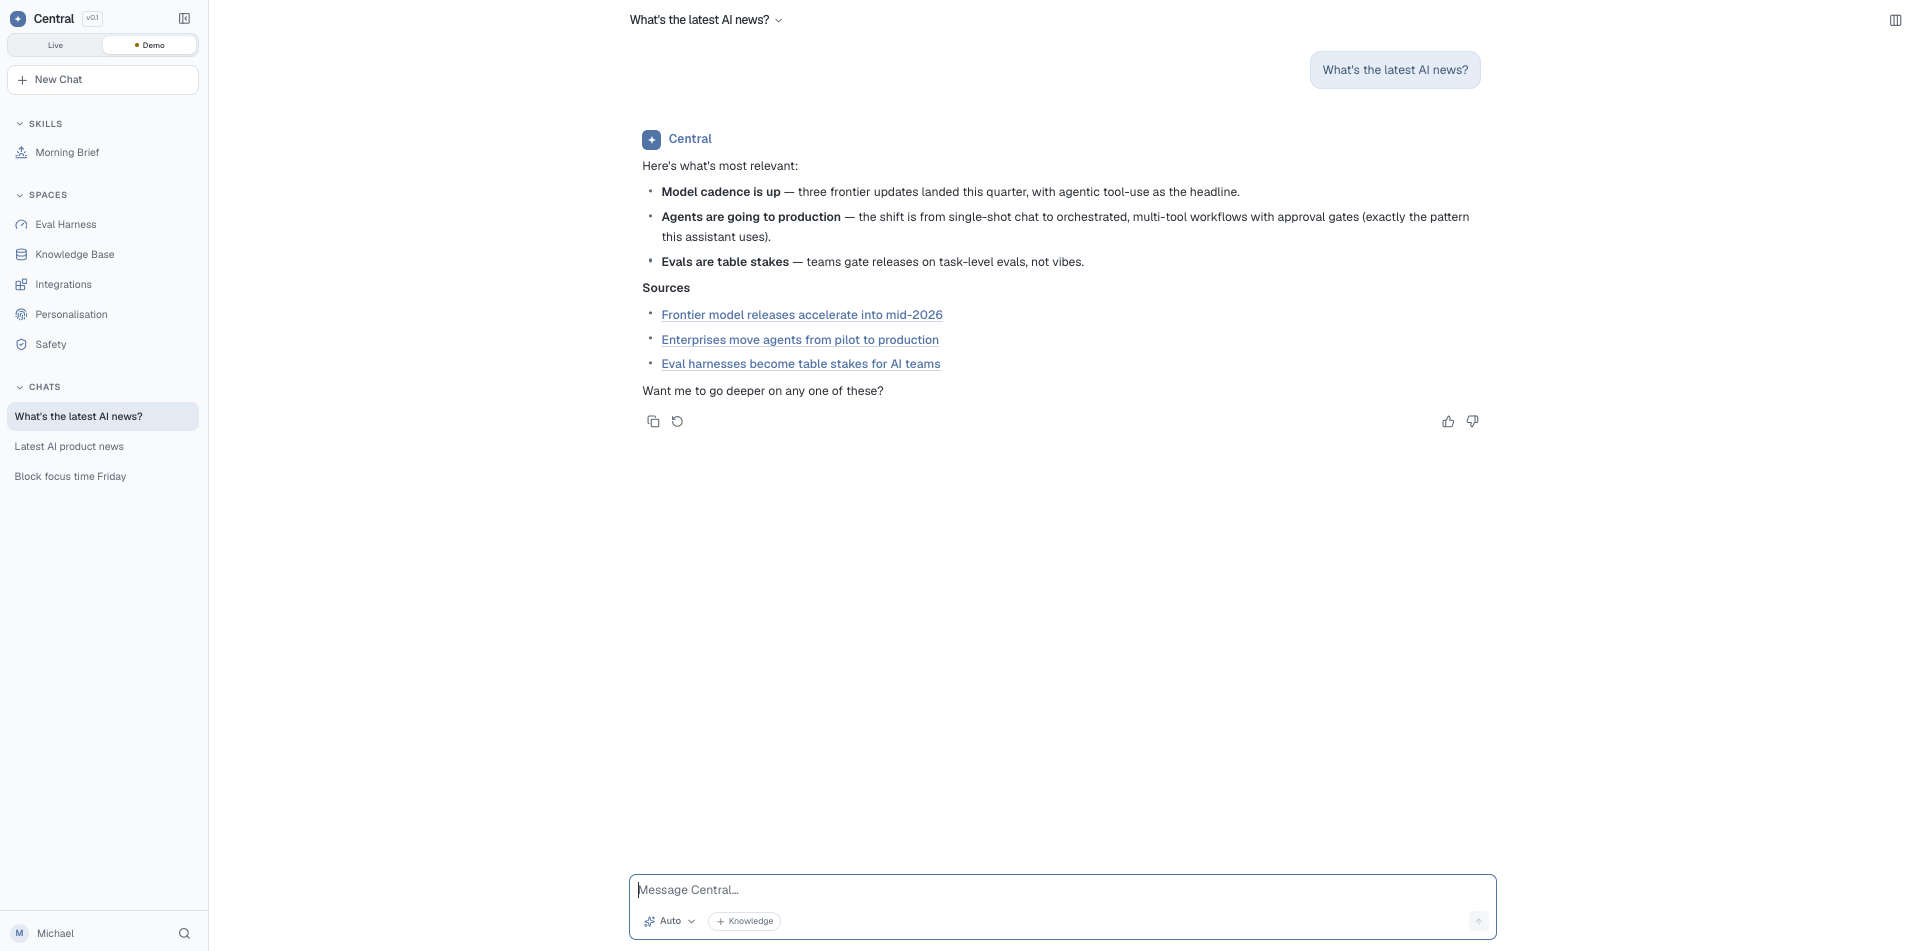
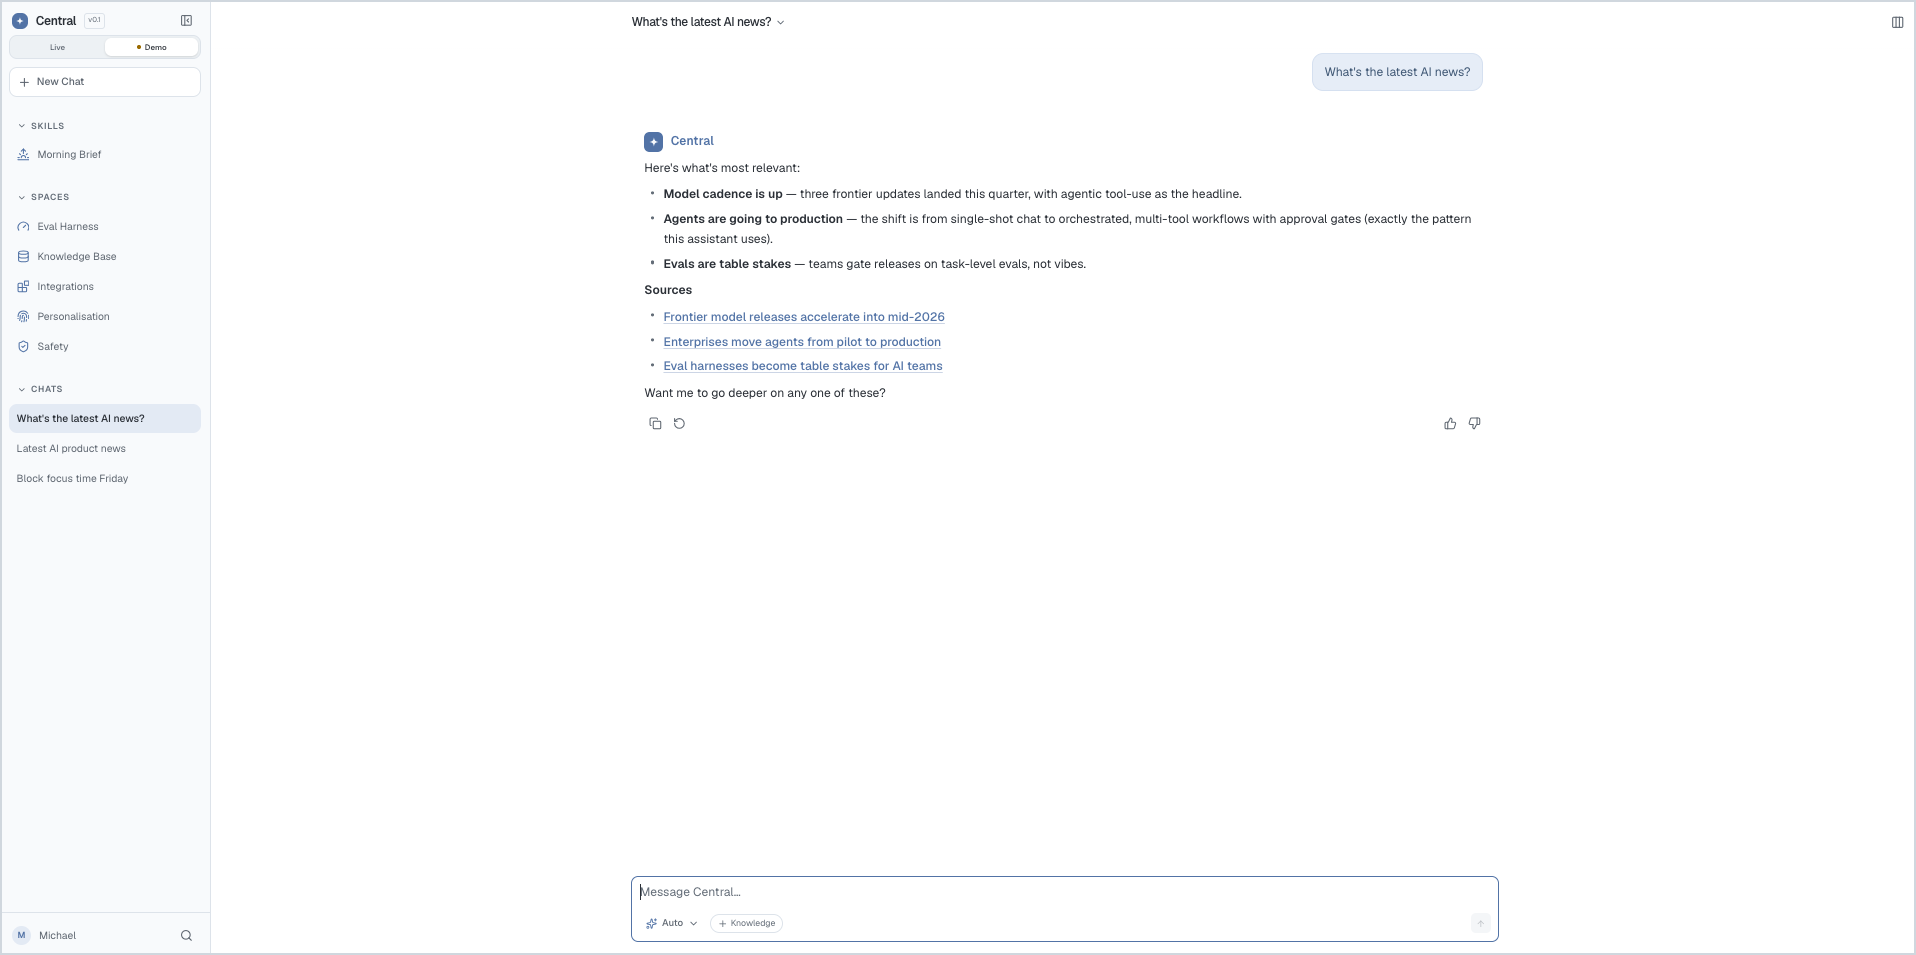
Portfolio overview: bulleted solutions, uncaptioned demo previews with bordered screenshots

diff --git a/README.md b/README.md
@@ -11,14 +11,14 @@
   <tbody>
   <tr>
     <td width="24%" valign="top"><b><a href="central/README.md">Central</a></b><br>Personal AI assistant harness for knowledge work<br><br><a href="https://michaelma-central.vercel.app/"><img src="https://img.shields.io/badge/Try%20the%20demo-1a7f5a?style=flat-square" alt="Central demo"></a> <a href="central/README.md"><img src="https://img.shields.io/badge/README-0b3d91?style=flat-square" alt="Central README"></a></td>
-    <td width="48%" valign="top"><b>Problem:</b> Paid AI plans cap usage and heavy users hit limits on agentic coding before the day's knowledge work is done. This knowledge work is also scattered across email, calendar, documents and the web.<br><br><b>Solution:</b> One agentic assistant at &#36;0 inference cost that works across 37 tools, shows what it will do first, remembers the user in a readable profile, blocks harmful requests without over-refusing, and keeps working when a provider fails.</td>
+    <td width="48%" valign="top"><b>Problem:</b> Paid AI plans cap usage, and knowledge work is scattered across email, calendar, documents and the web.<br><br><b>Solution:</b> One agentic assistant at &#36;0 inference cost that:<ul><li>works across 37 tools</li><li>shows what it will do first</li><li>remembers the user in a readable profile</li><li>blocks harmful requests without over-refusing</li><li>keeps working when a provider fails</li></ul></td>
     <td width="28%" valign="top"><img src="https://img.shields.io/badge/LangGraph-supervisor%20%2B%20workers-1a7f5a?style=flat-square" alt="LangGraph"> <img src="https://img.shields.io/badge/LlamaIndex-Qdrant%20Cloud%20vector%20store-1a7f5a?style=flat-square" alt="LlamaIndex"> <img src="https://img.shields.io/badge/Google%20Workspace-6%20apps-1a7f5a?style=flat-square&logo=google&logoColor=white" alt="Google Workspace"> <img src="https://img.shields.io/badge/Web-search%20·%20Fetch%20MCP%20·%20YouTube-1a7f5a?style=flat-square" alt="Web"> <img src="https://img.shields.io/badge/Hybrid%20RAG-Gemini%20embeddings%20%2B%20BM25-1a7f5a?style=flat-square" alt="Hybrid RAG"> <img src="https://img.shields.io/badge/Safety%20gate-Nemotron%20content%20safety-1a7f5a?style=flat-square" alt="Safety gate"> <img src="https://img.shields.io/badge/Inference-Gemini%20API%20·%20NVIDIA%20NIM-1a7f5a?style=flat-square" alt="Inference"></td>
   </tr>
   </tbody>
   <tbody>
   <tr>
     <td width="24%" valign="top"><b><a href="eval_harness/README.md">Eval Harness</a></b><br>Offline evals and release gate for Central<br><br><a href="https://michaelma-eval-harness.vercel.app/"><img src="https://img.shields.io/badge/Try%20the%20demo-1a7f5a?style=flat-square" alt="Eval Harness demo"></a> <a href="eval_harness/README.md"><img src="https://img.shields.io/badge/README-0b3d91?style=flat-square" alt="Eval Harness README"></a></td>
-    <td width="48%" valign="top"><b>Problem:</b> Eval-driven development is recommended because any product change can break an agent, though small teams sometimes decide to ship after spot-checking a few examples because agent evals are hard to build.<br><br><b>Solution:</b> A working example of agent evals on a real product: it scores Central's outputs against 211 golden cases, trusts the judge only once it matches human labels, and gives one release verdict.</td>
+    <td width="48%" valign="top"><b>Problem:</b> Any change can break an agent, and small teams often ship after spot-checks because agent evals are hard to build.<br><br><b>Solution:</b> A working example of agent evals on a real product that:<ul><li>scores Central's outputs against 211 golden cases</li><li>trusts the judge only once it matches human labels</li><li>gives one release verdict</li></ul></td>
     <td width="28%" valign="top"><img src="https://img.shields.io/badge/Golden%20dataset-211%20cases-b45309?style=flat-square" alt="Golden dataset"> <img src="https://img.shields.io/badge/LLM--as--judge-validated%20vs%20human%20labels-b45309?style=flat-square" alt="LLM-as-judge"> <img src="https://img.shields.io/badge/Cohen's%20κ-hand--rolled%2C%20degenerate--aware-b45309?style=flat-square" alt="Cohen's κ"> <img src="https://img.shields.io/badge/Release%20gating-P0%20%2B%20coverage%20%2B%20κ-b45309?style=flat-square" alt="Release gating"> <img src="https://img.shields.io/badge/Judges-2%20models%20on%20NVIDIA%20NIM-b45309?style=flat-square&logo=nvidia&logoColor=white" alt="Judges"> <img src="https://img.shields.io/badge/Arize%20Phoenix-tracing-b45309?style=flat-square" alt="Arize Phoenix"></td>
   </tr>
   </tbody>
@@ -26,11 +26,11 @@
 
 
 ## Demo Preview:
-**[Central](https://michaelma-central.vercel.app/)** · <sub><i>Calming first screen: chat, skills, spaces and a cited answer in one workspace</i></sub>
+**[Central](https://michaelma-central.vercel.app/)**
 
 <a href="https://michaelma-central.vercel.app/"><img src="assets/central-first-screen.png" alt="Central first screen" width="100%"></a>
 
-**[Eval Harness](https://michaelma-eval-harness.vercel.app/)** · <sub><i>Home page: topline verdict, trend, release-gate readiness</i></sub>
+**[Eval Harness](https://michaelma-eval-harness.vercel.app/)**
 
 <a href="https://michaelma-eval-harness.vercel.app/"><img src="assets/eval-harness-home.png" alt="Eval Harness home page" width="100%"></a>
 
